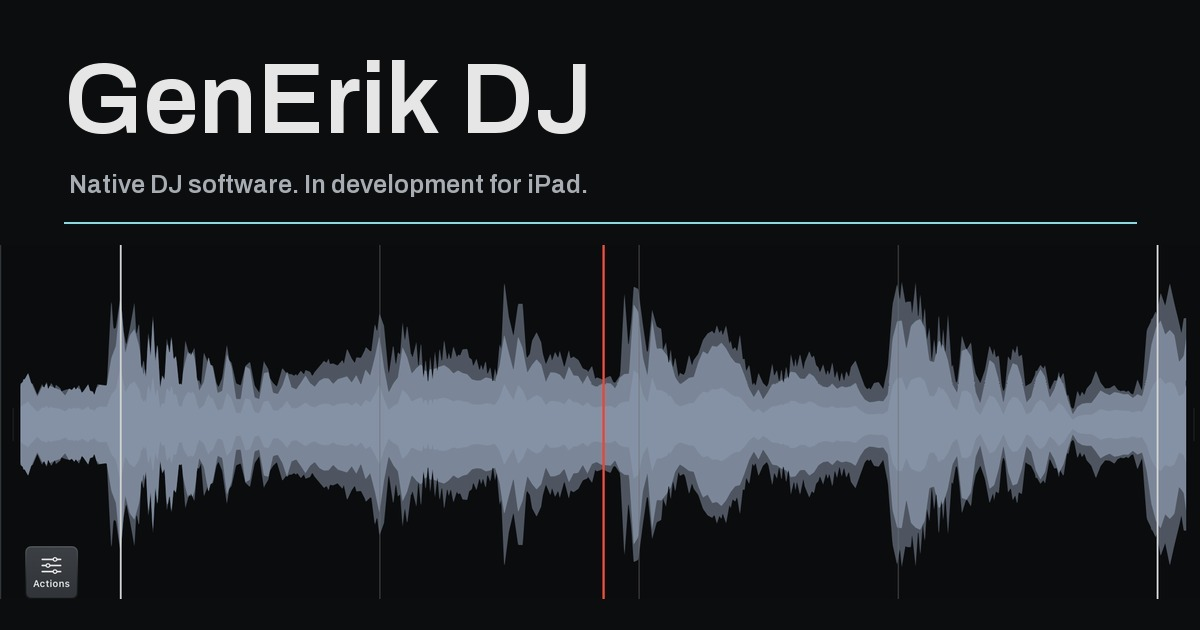
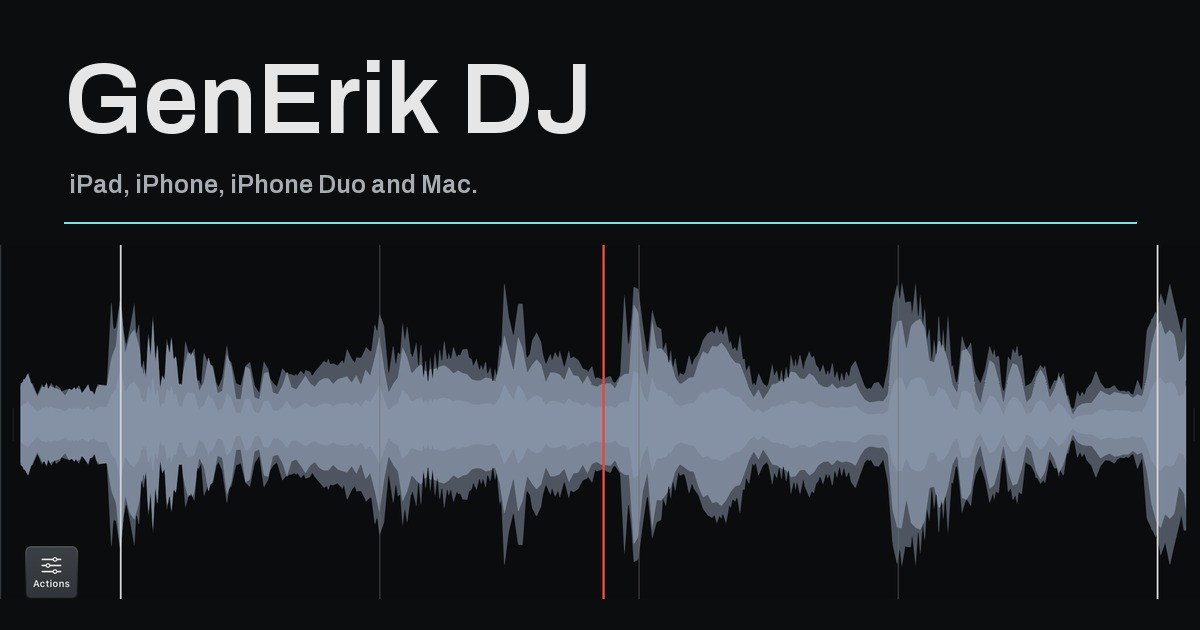
Correct website support for all four platforms (R291)

Changed region(s): [[0.0617, 0.2714, 0.4933, 0.3317]]

diff --git a/website/content/home.html b/website/content/home.html
@@ -1,13 +1,13 @@
 <section class="opening" aria-labelledby="product-title">
-  <div class="opening-title"><h1 id="product-title">GenErik DJ</h1><p class="release-state">In development<span>iPadOS 17 or later</span></p></div>
-  <div class="opening-line"><p>Mix your music on iPad.</p><a class="text-link" href="/manual">Explore the manual</a></div>
+  <div class="opening-title"><h1 id="product-title">GenErik DJ</h1><p class="release-state">In development<span>iPadOS · iOS · macOS</span></p></div>
+  <div class="opening-line"><p>DJ software for<br>{{platforms}}.</p><a class="text-link" href="/manual">Explore the manual</a></div>
   <figure class="instrument"><picture><source type="image/webp" srcset="/assets/workspace-960.webp 960w, /assets/workspace-1600.webp 1600w, /assets/workspace-2224.webp 2224w" sizes="(min-width: 1600px) 1440px, 94vw"><img src="/assets/workspace-1600.jpg" width="2224" height="1668" alt="GenErik DJ on iPad: two stacked decks with detailed waveforms, beat grids, Sync controls and a vertical crossfader." fetchpriority="high"></picture><figcaption><span>Development interface · Earlier iPad test capture</span><a href="/assets/workspace-2224.webp">View full resolution</a></figcaption></figure>
 </section>
 <nav class="sequence" aria-label="Product workflow"><a href="#library"><span>01</span>Library</a><a href="#prepare"><span>02</span>Read</a><a href="#mix"><span>03</span>Mix</a><a href="#record"><span>04</span>Record</a></nav>
 <div class="development-note"><p>This is a look inside the development build. Public release availability and final compatibility have not been announced.</p></div>
-<section class="movement" id="library"><div class="position" aria-hidden="true">01</div><div class="movement-body"><h2>Browse your tracks.</h2><div class="split-copy"><p>Find songs and playlists in your iPad’s music library. Choose a track, then drag Load towards A or B.</p><p class="quiet">Search by track or artist. Keep the browser open while you prepare the next deck.</p></div><figure class="library-detail"><picture><source type="image/webp" srcset="/assets/library-960.webp 960w, /assets/library-1600.webp 1600w" sizes="(min-width: 1100px) 80vw, 94vw"><img src="/assets/library-1600.jpg" width="2000" height="485" alt="Development library interface showing search, songs, artist and tempo information, and the Load control for decks A and B." loading="lazy"></picture><figcaption>Library detail · Earlier iPad test capture</figcaption></figure><a class="text-link" href="/manual#loading-tracks">Load your first track</a></div></section>
+<section class="movement" id="library"><div class="position" aria-hidden="true">01</div><div class="movement-body"><h2>Browse your tracks.</h2><div class="split-copy"><p>Find songs and playlists in your music library. Choose a track, then drag Load towards A or B.</p><p class="quiet">Search by track or artist. Keep the browser open while you prepare the next deck.</p></div><figure class="library-detail"><picture><source type="image/webp" srcset="/assets/library-960.webp 960w, /assets/library-1600.webp 1600w" sizes="(min-width: 1100px) 80vw, 94vw"><img src="/assets/library-1600.jpg" width="2000" height="485" alt="Development library interface showing search, songs, artist and tempo information, and the Load control for decks A and B." loading="lazy"></picture><figcaption>Library detail · Earlier iPad test capture</figcaption></figure><a class="text-link" href="/manual#loading-tracks">Load your first track</a></div></section>
 <section class="movement" id="prepare"><div class="position" aria-hidden="true">02</div><div class="movement-body"><h2>Prepare the track.</h2><p class="lead">BPM, key and beat grids.<br>Sections marked on the waveform.</p><figure class="wave-detail"><picture><source type="image/webp" srcset="/assets/waveform-960.webp 960w, /assets/waveform-1600.webp 1600w" sizes="94vw"><img src="/assets/waveform-1600.jpg" width="2000" height="590" alt="Detail from deck B: layered waveform peaks, vertical beat lines, a red playhead." loading="lazy"></picture><figcaption>Waveform detail · Earlier iPad test capture</figcaption></figure><div class="split-copy"><p>Check the beat grid against the music. Adjust beat one and save the correction before you mix.</p><p class="quiet">The overview shows the whole track. Zoom into the deck waveform to inspect individual beats.</p></div><a class="text-link" href="/manual#track-analysis">Understand track preparation</a></div></section>
 <section class="movement" id="mix"><div class="position" aria-hidden="true">03</div><div class="movement-body"><h2>Mix with both hands.</h2><p class="lead">Loop a phrase on one deck.<br>Adjust the other as it plays.</p><div class="control-score"><div><span class="deck-letter">A</span><p>Waveform<br>Loop &amp; cues<br>EQ &amp; effects</p></div><div class="mix-axis" aria-hidden="true"><span></span></div><div><span class="deck-letter">B</span><p>Waveform<br>Loop &amp; cues<br>EQ &amp; effects</p></div></div><p class="caption">Deck controls in the two-deck workspace.</p><div class="split-copy"><p>Open EQ or effects beside either deck. Resize the deck and browser panes as you work.</p><p class="quiet">Sync follows the beat grid. Use the crossfader to blend A and B.</p></div><a class="text-link" href="/manual#deck-controls">Read the deck controls</a>
 <aside class="next-track"><h3>Find the next track</h3><p>See tracks within 6% of the selected tempo, including half-time and double-time matches. Compatible keys appear first.</p><a href="/manual#recommendations">Read the matching rules</a></aside></div></section>
 <section class="movement" id="record"><div class="position" aria-hidden="true">04</div><div class="movement-body"><h2>Record your mix.</h2><div class="split-copy"><p>Start and stop recording from the sound panel. Find the saved mix in the browser.</p><p class="quiet">Review your play history or share a recording after the set.</p></div><a class="text-link" href="/manual#recording">Read the recording guide</a></div></section>
-<section class="closing"><h2>In development for iPad.</h2><p>A public release date has not been announced.</p><a class="contact-link" href="/support">Talk to the developer</a></section>
+<section class="closing"><h2>Release availability</h2><p>A public release date has not been announced.</p><a class="contact-link" href="/support">Talk to the developer</a></section>

diff --git a/website/content/manual.html b/website/content/manual.html
@@ -1,8 +1,9 @@
-<p class="lead">A guide to the development build.</p><p>Controls can change before release. This manual covers the iPad workspace. It does not establish release approval or controller compatibility.</p>
-<nav class="contents" aria-label="Manual contents"><a href="#getting-started">Getting started</a><a href="#music-library">Music library</a><a href="#loading-tracks">Loading tracks</a><a href="#track-analysis">Track analysis</a><a href="#waveforms">Waveforms</a><a href="#deck-controls">Deck controls</a><a href="#sync-and-tempo">Sync &amp; tempo</a><a href="#cueing">Cueing</a><a href="#loops">Loops</a><a href="#eq-and-mixer">EQ &amp; mixer</a><a href="#effects">Effects</a><a href="#recommendations">Recommendations</a><a href="#recording">Recording &amp; history</a><a href="#sharing">Sharing &amp; recovery</a><a href="#settings">Settings</a><a href="#controllers">Controllers</a><a href="#accessibility">Accessibility</a></nav>
-<section id="getting-started"><h2>Getting started</h2><ol><li>Open GenErik DJ on your iPad.</li><li>Allow music-library access when you want to use local songs and playlists.</li><li>Open the library with the music button.</li><li>Select an available track.</li><li>Load it onto a stopped deck.</li><li>Check the audio output before you start playback.</li></ol><p>Start with two decks. Experimental expansions are not required for the base workspace.</p></section>
+<p class="lead">A guide to the development build.</p><p>GenErik DJ supports {{platforms}}. This guide covers shared controls and the differences between workspaces. Controls can change before release.</p>
+<nav class="contents" aria-label="Manual contents"><a href="#getting-started">Getting started</a><a href="#platforms">Your workspace</a><a href="#music-library">Music library</a><a href="#loading-tracks">Loading tracks</a><a href="#track-analysis">Track analysis</a><a href="#waveforms">Waveforms</a><a href="#deck-controls">Deck controls</a><a href="#sync-and-tempo">Sync &amp; tempo</a><a href="#cueing">Cueing</a><a href="#loops">Loops</a><a href="#eq-and-mixer">EQ &amp; mixer</a><a href="#effects">Effects</a><a href="#recommendations">Recommendations</a><a href="#recording">Recording &amp; history</a><a href="#sharing">Sharing &amp; recovery</a><a href="#settings">Settings</a><a href="#controllers">Controllers</a><a href="#accessibility">Accessibility</a></nav>
+<section id="getting-started"><h2>Getting started</h2><ol><li>Open GenErik DJ.</li><li>Allow music-library access when you want to use local songs and playlists.</li><li>Open the library with the music button.</li><li>Select an available track.</li><li>Load it onto a stopped deck.</li><li>Check the audio output before you start playback.</li></ol><p>Start with two decks. Experimental expansions are not required for the base workspace.</p></section>
+<section id="platforms"><h2>Your workspace</h2><h3>iPad</h3><p>The browser and decks share the screen. Drag the pane handles to change how much space each part uses.</p><h3>iPhone</h3><p>The front-screen browser has Performance, Browse and Expand shortcuts. Use them to change the space available for browsing and deck controls.</p><h3>iPhone Duo</h3><p>The front screen uses the phone browser. The inside screen uses the wider workspace, with movable browser and deck panes.</p><h3>Mac</h3><p>Use the pointer to select tracks and operate deck controls. Drag Load towards the destination deck. The Mac app reads local songs and playlists from your Music library.</p><p>The Mac workspace requires a window of at least 800 × 600 pixels. A dedicated DJ keyboard-shortcut set has not been verified.</p></section>
 <section id="music-library"><h2>Music library</h2><p>The library shows songs and playlists from the device’s music library. Use search to narrow the list. Audio must be on the device and accessible to the app.</p><p>Protected tracks and unavailable cloud-only audio cannot be loaded. Access to library metadata does not grant access to subscription audio. The app does not change your Music library.</p></section>
-<section id="loading-tracks"><h2>Loading tracks</h2><ol><li>Select a track in the browser.</li><li>Drag Load towards A or B.</li><li>Check the track name on the destination deck.</li></ol><p>In the standard two-deck layout, drag up for A and down for B. The file start appears at the playhead when the track loads.</p></section>
+<section id="loading-tracks"><h2>Loading tracks</h2><ol><li>Select a track in the browser.</li><li>Drag Load towards A or B.</li><li>Check the track name on the destination deck.</li></ol><p>Follow the A and B labels beside Load. In the standard stacked layout, drag up for A and down for B. The file start appears at the playhead when the track loads.</p></section>
 <section id="track-analysis"><h2>Track analysis</h2><p>Preparation can include a waveform, BPM, key, beat grid and track sections. Estimated values are not guarantees. Review uncertain timing before a performance.</p><ol><li>Load the track and inspect the grid against audible beats.</li><li>Open the track’s grid controls when a correction is needed.</li><li>Tap the intended beat to mark beat one.</li><li>Select Done to save the downbeat and phase correction.</li></ol><p>Manual preparation takes priority over automatic sharing. Deep analysis and recovery belong between sets.</p></section>
 <section id="waveforms"><h2>Waveforms</h2><p>The large waveform shows local detail. The overview shows the track’s wider structure and current position. Beat lines, section labels and cue markers provide timing references.</p><p>Use the waveform to move through the track. Resize the workspace panes to give the browser or a deck more room. Frequency bands help separate musical detail. They are not isolated audio stems.</p></section>
 <section id="deck-controls"><h2>Deck controls</h2><p>A and B each have Play, Sync and contextual tools. Open the deck’s EQ or FX drawer when you need it. Close the drawer to return space to the waveform.</p><p>The performance surface supports direct waveform control, beat-based movement, loops and cues. Optional buttons are configured in Settings.</p></section>

diff --git a/website/content/support.html b/website/content/support.html
@@ -1,7 +1,7 @@
 <p class="lead">Help with GenErik DJ.</p>
-<p>GenErik DJ is in development. The active test platform is iPad with iPadOS 17 or later. Public release compatibility has not been announced.</p>
+<p>GenErik DJ supports {{platforms}}. The app is in development, with no public App Store release announced.</p>
 <section id="contact"><h2>Contact Erik Veland</h2><p>For support, feature requests, privacy enquiries and legal correspondence:</p><p><a class="contact-link" href="mailto:erik@veland.au">erik@veland.au</a></p><p>Email opens your mail app. Nothing is sent until you send the message.</p></section>
 <section id="help"><h2>Start with the manual</h2><p><a href="/manual">Read the GenErik DJ manual</a> for library access, loading tracks, Sync, loops, mixing and recording.</p></section>
-<section id="troubleshooting"><h2>Common problems</h2><details open><summary>A track will not load</summary><p>Check that the audio is downloaded to the device and is not copy-protected. Subscription-protected tracks cannot be mixed. Check the app’s media permission in iPad Settings.</p></details><details><summary>The beat grid is wrong</summary><p>Check the grid against the waveform and the music. Use the track’s grid correction controls before relying on Sync. See <a href="/manual#track-analysis">track analysis</a>.</p></details><details><summary>No sound or headphone cue</summary><p>Check the device volume, deck playback, crossfader and output route. Open Sound &amp; Headphones to inspect routing. Disconnecting an audio device can change the active route.</p></details><details><summary>Preparation has not synced</summary><p>Check your iCloud account and network connection. Keep the app open with playback stopped. In Sharing &amp; backup, select Sync now. Local preparation remains available if sync fails.</p></details><details><summary>Audio breaks up or controls stall</summary><p>This is a defect. Stop using the build for performance and report it. Include the device, build, connected equipment and the action that triggered it.</p></details></section>
-<section id="report-a-bug"><h2>Report a bug</h2><p>Email the following details:</p><ul><li>Device model, iPadOS version and app build number.</li><li>What you did, what you expected and what happened.</li><li>Whether you can repeat the problem.</li><li>Connected audio equipment and controllers, if relevant.</li></ul><p>A screenshot or short recording can help. Remove personal information before sharing. Do not send music files unless requested and you have permission to share them.</p></section>
+<section id="troubleshooting"><h2>Common problems</h2><details open><summary>A track will not load</summary><p>Check that the audio is downloaded to the device and is not copy-protected. Subscription-protected tracks cannot be mixed. Check the app’s media permission in Settings on iPad or iPhone, or System Settings on Mac.</p></details><details><summary>The beat grid is wrong</summary><p>Check the grid against the waveform and the music. Use the track’s grid correction controls before relying on Sync. See <a href="/manual#track-analysis">track analysis</a>.</p></details><details><summary>No sound or headphone cue</summary><p>Check the device volume, deck playback, crossfader and output route. Open Sound &amp; Headphones to inspect routing. Disconnecting an audio device can change the active route.</p></details><details><summary>Preparation has not synced</summary><p>Check your iCloud account and network connection. Keep the app open with playback stopped. In Sharing &amp; backup, select Sync now. Local preparation remains available if sync fails.</p></details><details><summary>Audio breaks up or controls stall</summary><p>This is a defect. Stop using the build for performance and report it. Include the device, build, connected equipment and the action that triggered it.</p></details></section>
+<section id="report-a-bug"><h2>Report a bug</h2><p>Email the following details:</p><ul><li>Device model, operating-system version and app build number.</li><li>What you did, what you expected and what happened.</li><li>Whether you can repeat the problem.</li><li>Connected audio equipment and controllers, if relevant.</li></ul><p>A screenshot or short recording can help. Remove personal information before sharing. Do not send music files unless requested and you have permission to share them.</p></section>
 <section id="request-a-feature"><h2>Request a feature</h2><p>Describe the mixing task you want to complete and where the current controls interrupt it. Send the request to <a href="mailto:erik@veland.au?subject=GenErik%20DJ%20feature%20request">Erik Veland</a>.</p></section>

diff --git a/website/content/choices.html b/website/content/choices.html
@@ -1,5 +1,5 @@
-<p class="lead">Permissions, storage and deletion.</p><section id="permissions"><h2>Revoke system permissions</h2><ol><li>Open Settings on your iPad.</li><li>Open Privacy &amp; Security.</li><li>Find Media &amp; Apple Music or Microphone.</li><li>Disable GenErik DJ’s access where listed.</li></ol><p>Setting names can vary by iPadOS version. Removing permission does not erase prepared data or recordings.</p></section>
-<section id="analytics"><h2>Analytics and diagnostics</h2><p>There is no optional third-party analytics switch in the audited app because no such analytics service is integrated.</p><p>Apple’s device analytics choices are under Settings, Privacy &amp; Security, Analytics &amp; Improvements. Review the options shown on your device.</p><p>Local diagnostic files remain on the device unless you share them or a device backup includes them. Review logs and screenshots before sending them to support.</p></section>
+<p class="lead">Permissions, storage and deletion.</p><section id="permissions"><h2>Revoke system permissions</h2><ol><li>On iPad or iPhone, open Settings. On Mac, open System Settings.</li><li>Open Privacy &amp; Security.</li><li>Find Media &amp; Apple Music or Microphone.</li><li>Disable GenErik DJ’s access where listed.</li></ol><p>Setting names can vary by operating-system version. Removing permission does not erase prepared data or recordings.</p></section>
+<section id="analytics"><h2>Analytics and diagnostics</h2><p>There is no optional third-party analytics switch in the audited app because no such analytics service is integrated.</p><p>Apple’s device analytics choices are under Privacy &amp; Security, Analytics &amp; Improvements in Settings or System Settings. Review the options shown on your device.</p><p>Local diagnostic files remain on the device unless you share them or a device backup includes them. Review logs and screenshots before sending them to support.</p></section>
 <section id="cloud"><h2>iCloud sharing</h2><p>In Sharing &amp; backup, Stop sync stops the current transfer. Automatic preparation sharing can restart while the app is open and idle. This is not a permanent opt-out.</p><p>Review GenErik DJ’s iCloud access under your Apple Account settings, where available. The current app has no permanent in-app sharing switch or complete cloud-deletion control.</p><p>Cloud preparation is held in your private Apple account database. Deleting the app does not delete those records. For help removing them, email <a href="mailto:erik@veland.au?subject=GenErik%20DJ%20cloud%20data">erik@veland.au</a>. Do not send your Apple Account password.</p></section>
-<section id="local-data"><h2>Remove local app data</h2><ol><li>Export recordings and preparation that you want to keep.</li><li>Stop playback and close GenErik DJ.</li><li>Open Settings, General, then iPad Storage.</li><li>Select GenErik DJ.</li><li>Select Delete App to remove the app and its local data.</li></ol><p>Offload App keeps documents and data. Deleting the app does not remove exports, device backups or private iCloud preparation. Cloud data can return after reinstallation when sync resumes.</p></section>
+<section id="local-data"><h2>Remove local app data</h2><h3>iPad, iPhone and iPhone Duo</h3><ol><li>Export recordings and preparation that you want to keep.</li><li>Stop playback and close GenErik DJ.</li><li>Open Settings, General, then iPad Storage or iPhone Storage.</li><li>Select GenErik DJ.</li><li>Select Delete App to remove the app and its local data.</li></ol><p>Offload App keeps documents and data. Deleting the app does not remove exports, device backups or private iCloud preparation. Cloud data can return after reinstallation when sync resumes.</p><h3>Mac</h3><p>Deleting the Mac app does not necessarily remove its saved library, recordings or preferences. Export anything you want to keep, then quit GenErik DJ.</p><p>Contact <a href="mailto:erik@veland.au?subject=GenErik%20DJ%20Mac%20data%20removal">support</a> for the data location used by your build. Development and App Store builds can store data in different locations. Identify the correct folder before removing it.</p></section>
 <section id="contact"><h2>Access, correction or deletion</h2><p>For information held in support correspondence, contact <a href="mailto:erik@veland.au?subject=GenErik%20DJ%20privacy%20request">Erik Veland</a>. Identify the request and the email address used for support.</p><p>The website has no user accounts or contact-form database. Apple manages iCloud and purchase-account records.</p><p><a href="/privacy">Read the full privacy notice</a>.</p></section>

diff --git a/website/content/legal.html b/website/content/legal.html
@@ -1,1 +1,1 @@
-<p class="lead">GenErik DJ, by Erik Veland.</p><nav class="legal-index" aria-label="Legal information"><a href="/privacy">Privacy notice<span>Data, permissions and services</span></a><a href="/privacy/choices">Privacy choices<span>Access, retention and deletion</span></a><a href="/terms">Terms of use<span>Application licence</span></a><a href="/accessibility">Accessibility<span>Support and testing limits</span></a><a href="/credits">Credits &amp; licences<span>Third-party acknowledgements</span></a><a href="/support#contact">Contact<span>Support, privacy and legal enquiries</span></a></nav><section><h2>Trademarks</h2><p>Apple, iPad, Mac, macOS, iPadOS, Apple Music and App Store are trademarks or service marks of Apple Inc. GenErik DJ is an independent product and is not endorsed by Apple.</p><p>Other product names belong to their respective owners. Their inclusion in documentation does not establish integration or compatibility.</p></section>
+<p class="lead">GenErik DJ, by Erik Veland.</p><nav class="legal-index" aria-label="Legal information"><a href="/privacy">Privacy notice<span>Data, permissions and services</span></a><a href="/privacy/choices">Privacy choices<span>Access, retention and deletion</span></a><a href="/terms">Terms of use<span>Application licence</span></a><a href="/accessibility">Accessibility<span>Support and testing limits</span></a><a href="/credits">Credits &amp; licences<span>Third-party acknowledgements</span></a><a href="/support#contact">Contact<span>Support, privacy and legal enquiries</span></a></nav><section><h2>Trademarks</h2><p>Apple, iPad, iPhone, Mac, macOS, iPadOS, iOS, Apple Music and App Store are trademarks or service marks of Apple Inc. GenErik DJ is an independent product and is not endorsed by Apple.</p><p>Other product names belong to their respective owners. Their inclusion in documentation does not establish integration or compatibility.</p></section>

diff --git a/website/content/accessibility.html b/website/content/accessibility.html
@@ -1,3 +1,3 @@
 <p class="lead">Accessibility support and known limits.</p><section id="website"><h2>Website</h2><p>The site uses semantic headings, labelled navigation, a skip link, visible keyboard focus and native links and disclosure controls. Product images have text alternatives. Content and navigation do not depend on JavaScript.</p><p>The layout adapts to narrow screens and enlarged text. Motion is limited to optional focus and interaction feedback. Reduced-motion preferences disable smooth scrolling.</p><p>These implementation choices are not a claim of WCAG certification. The verification record is maintained with the website source.</p></section>
-<section id="app"><h2>GenErik DJ app</h2><p>The development app contains accessibility labels and actions for some controls, including track loading. A complete VoiceOver, Dynamic Type, Switch Control and keyboard workflow has not been verified.</p><p>No full accessibility conformance claim is made for the app. The iPad performance interface is still under test.</p></section>
+<section id="app"><h2>GenErik DJ app</h2><p>The development app contains accessibility labels and actions for some controls, including track loading. A complete VoiceOver, Dynamic Type, Switch Control and keyboard workflow has not been verified.</p><p>No full accessibility conformance claim is made for the app. The performance interfaces on iPad, iPhone, iPhone Duo and Mac are still under test.</p></section>
 <section id="report"><h2>Report a barrier</h2><p>Email <a href="mailto:erik@veland.au?subject=GenErik%20DJ%20accessibility">erik@veland.au</a>. Include the page or control, device, assistive technology and task you could not complete.</p><p>For app instructions in a text format, use the <a href="/manual">manual</a>.</p></section>

diff --git a/website/build.py b/website/build.py
@@ -9,8 +9,9 @@ from pathlib import Path
 ROOT = Path(__file__).resolve().parent
 CONFIG = json.loads((ROOT / 'site.json').read_text())
 OUT = ROOT / 'dist'
+PLATFORMS = ', '.join(CONFIG['platforms'][:-1]) + ' and ' + CONFIG['platforms'][-1]
 PAGES = [
-    ('/', 'home', 'GenErik DJ — Native DJ software for iPad', 'A look inside GenErik DJ: a native two-deck touch workspace in development for iPad.'),
+    ('/', 'home', 'GenErik DJ — Native DJ software', f'Native DJ software for {PLATFORMS}. Browse tracks, prepare beat grids, mix and record.'),
     ('/manual', 'manual', 'Manual', 'Task-based help for the GenErik DJ development build: library, decks, grids, Sync, mixing and recording.'),
     ('/support', 'support', 'Support', 'Get help with GenErik DJ. Troubleshooting, bug reports, feature requests and contact details for Erik Veland.'),
     ('/privacy', 'privacy', 'Privacy', 'How the GenErik DJ development app and website handle music, preparation, iCloud, diagnostics and support information.'),
@@ -43,10 +44,10 @@ def build():
         canonical = origin + (route if not is_home else '/')
         schema = [{"@context": "https://schema.org", "@type": "WebSite", "@id": origin + '/#website', "name": CONFIG['name'], "url": origin + '/', "inLanguage": "en-AU", "creator": {"@type": "Person", "name": CONFIG['developer'], "url": origin + '/support'}}]
         if is_home:
-            schema.append({"@context":"https://schema.org", "@type":"SoftwareApplication", "name":"GenErik DJ", "url":canonical, "applicationCategory":"MultimediaApplication", "operatingSystem":"iPadOS 17 or later (development target)", "description":description, "creativeWorkStatus":"In development", "author":{"@type":"Person","name":CONFIG['developer']}, "image":origin+'/assets/social.jpg'})
+            schema.append({"@context":"https://schema.org", "@type":"SoftwareApplication", "name":"GenErik DJ", "url":canonical, "applicationCategory":"MultimediaApplication", "operatingSystem":CONFIG["operating_systems"], "availableOnDevice":CONFIG["platforms"], "description":description, "creativeWorkStatus":"In development", "author":{"@type":"Person","name":CONFIG['developer']}, "image":origin+'/assets/social.jpg'})
         elif source not in ('404', '503'):
             schema.append({"@context":"https://schema.org", "@type":"BreadcrumbList", "itemListElement":[{"@type":"ListItem","position":1,"name":"GenErik DJ","item":origin+'/'},{"@type":"ListItem","position":2,"name":title,"item":canonical}]})
-        body = (ROOT / 'content' / (source + '.html')).read_text()
+        body = (ROOT / 'content' / (source + '.html')).read_text().replace('{{platforms}}', html.escape(PLATFORMS))
         if not is_home:
             body = f'<div class="document-heading"><h1>{html.escape(title)}</h1><a href="/">GenErik DJ</a></div><div class="document-body">{body}</div>'
         robots = '<meta name="robots" content="noindex,follow">' if source in ('404', '503') else ''

diff --git a/website/tests/check_site.py b/website/tests/check_site.py
@@ -39,7 +39,10 @@ def check():
             if tag=='a':assert attrs.get('href') not in ('',None,'#'),route
             if tag in ('iframe','form'):raise AssertionError((route,tag))
         for data in re.findall(r'<script type="application/ld\+json">(.*?)</script>',text,re.S):json.loads(data)
-        assert not re.search(r'\bTODO\b|lorem ipsum|placeholder',text,re.I),route
+        assert not re.search(r'\bTODO\b|lorem ipsum|placeholder|\{\{platforms\}\}',text,re.I),route
+        if source in ('home','manual','support'):
+            for platform in CONFIG['platforms']:
+                assert platform in text,(route,platform)
     for route,p in cache.items():
         for tag,attrs in p.tags:
             urls=[attrs[x] for x in ('href','src') if x in attrs]

diff --git a/website/prepare_assets.py b/website/prepare_assets.py
@@ -37,7 +37,7 @@ font.save(font_path)
 font=ImageFont.truetype(font_path,100)
 small=ImageFont.truetype(font_path,25)
 draw.text((64,45),'GenErik DJ',font=font,fill='#e6e6e6')
-draw.text((69,171),'Native DJ software. In development for iPad.',font=small,fill='#a7adb2')
+draw.text((69,171),'iPad, iPhone, iPhone Duo and Mac.',font=small,fill='#a7adb2')
 strip=waveform.resize((1200,354),Image.Resampling.LANCZOS)
 social.paste(strip,(0,245))
 draw.line((64,222,1136,222),fill='#7ddee6',width=2)

diff --git a/docs/coordination/website-r291.md b/docs/coordination/website-r291.md
@@ -13,7 +13,7 @@ The repository does not establish an accepted public release. Public pages must 
 
 | Area | Status | Evidence and public boundary |
 | --- | --- | --- |
-| iPad | Implemented, acceptance open | README and iPad project target iPadOS 17+. State the development target, not a released compatibility guarantee. |
+| iPad | Supported platform, app release pending | Erik explicitly confirmed support on 18 November 2026. The project minimum is iPadOS 17. |
 | Two decks, library, search, playlists | Implemented, acceptance open | ARCHITECTURE base instrument, LocalMusicLibrary and MusicLibraryView. Describe the development build. |
 | Local music | Implemented | LocalMusicLibrary rejects protected and unavailable audio. No subscription streaming claim. |
 | Waveforms, BPM, key, grids, sections | Implemented, acceptance open | ARCHITECTURE and R118/R124/R129/R139. No accuracy or timing guarantees. |
@@ -24,7 +24,7 @@ The repository does not establish an accepted public release. Public pages must 
 | StoreKit purchases | Implemented, not release-ready | R175. Products, pricing and purchase acceptance remain open. No App Store badge or prices. |
 | Four decks, live stems, automatic mix | Experimental | ARCHITECTURE expansion gates. Excluded from home page. |
 | Controller catalogue | Implemented, model acceptance varies | R169 and R176–R290. No supported-model list. |
-| iPhone, Duo, Mac public support | Not release-approved | Active target is iPad. Excluded from availability claims. |
+| iPhone, iPhone Duo, Mac | Supported platforms, app release pending | Erik explicitly confirmed all three on 18 November 2026. Native source supports phone/front, Duo/inside and Mac workspaces. The current iPad testing focus does not restrict product platform support. |
 | Subscription streaming, testimonials, awards | Unsupported by evidence | Omitted. |
 | Accessibility | No complete test evidence | Describe website implementation and app verification limits separately. |
 
@@ -86,3 +86,12 @@ App Store Connect metadata fields were prepared in the website README but were n
 - [Apple iPad privacy controls](https://support.apple.com/en-ie/guide/ipad/ipad9ae59af9/27/ipados/27)
 
 These references support the licence link and system-setting guidance. App-specific data statements come from the audited source, not assumptions about Apple services.
+
+## Platform correction
+
+Erik confirmed support for iPad, iPhone, iPhone Duo and Mac after the initial publication.
+The first publication incorrectly treated the active iPad test loop as the product platform scope.
+The corrected site stores all four platform names in `website/site.json` and uses them in page copy and structured metadata.
+The manual describes the distinct phone front, Duo inside, iPad and Mac workspaces.
+Privacy choices now distinguish mobile settings and deletion from Mac settings and build-specific data locations.
+Product images remain identified as iPad captures. Other platforms do not receive fabricated screenshots.

diff --git a/docs/coordination/requests.md b/docs/coordination/requests.md
@@ -429,4 +429,4 @@ Every request ID is retained. “Implemented” describes source availability, n
 
 | R290 | In progress | Implement separate Beatpad 2 factory-source core | Added separate normal transport, native touch/jog, full pitch, mixer/filter, eight cues, source loop page, Shift cleanup and bounded steady feedback. Seventeen focused Swift checks, 121 importer checks and iPad framework compilation pass. Full modes/reset, routing and physical acceptance remain open. [Scope](controller-coverage.md#r290-separate-beatpad-2-core). |
 
-| R291 | Published; release checks open | Build and deploy the official GenErik DJ website | Ten public pages live on Glasscode at https://dj.generik.au with valid HTTPS. Static checks, canonical redirects and public routes pass. Fresh captures, final privacy reconciliation and full device/browser accessibility checks remain open. [Scope and verification](website-r291.md). |
+| R291 | Published; release checks open | Build and deploy the official GenErik DJ website | Ten public pages live on Glasscode at https://dj.generik.au with valid HTTPS. Erik confirmed iPad, iPhone, iPhone Duo and Mac support. Static checks, canonical redirects and public routes pass. Fresh captures, final privacy reconciliation and full device/browser accessibility checks remain open. [Scope and verification](website-r291.md). |
